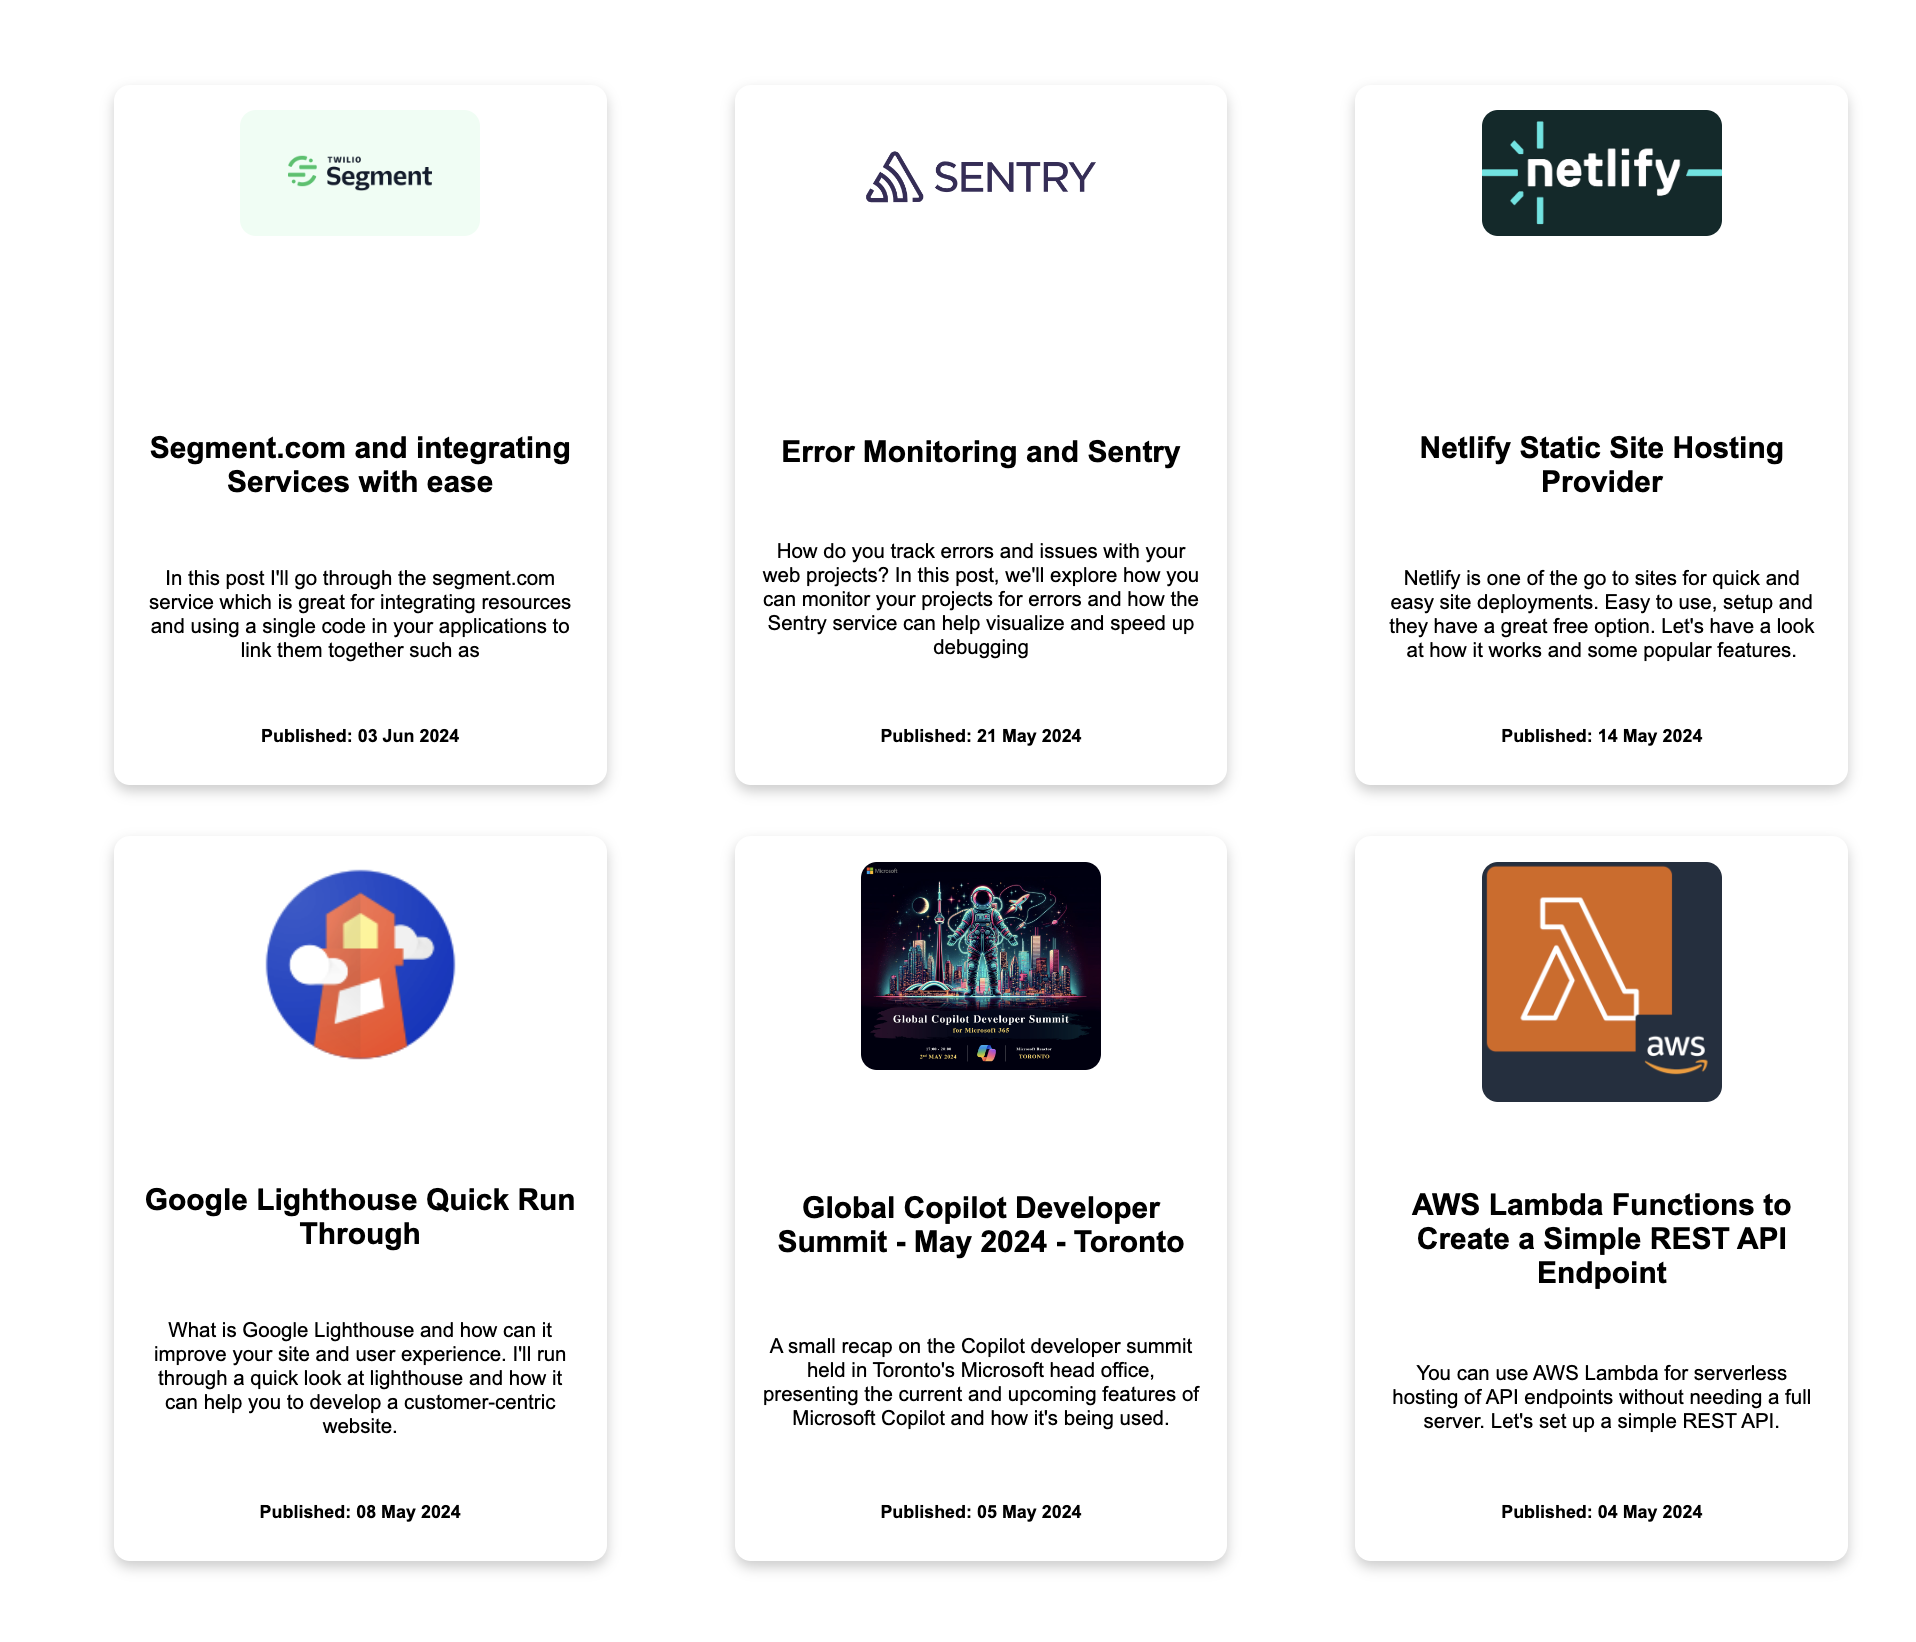
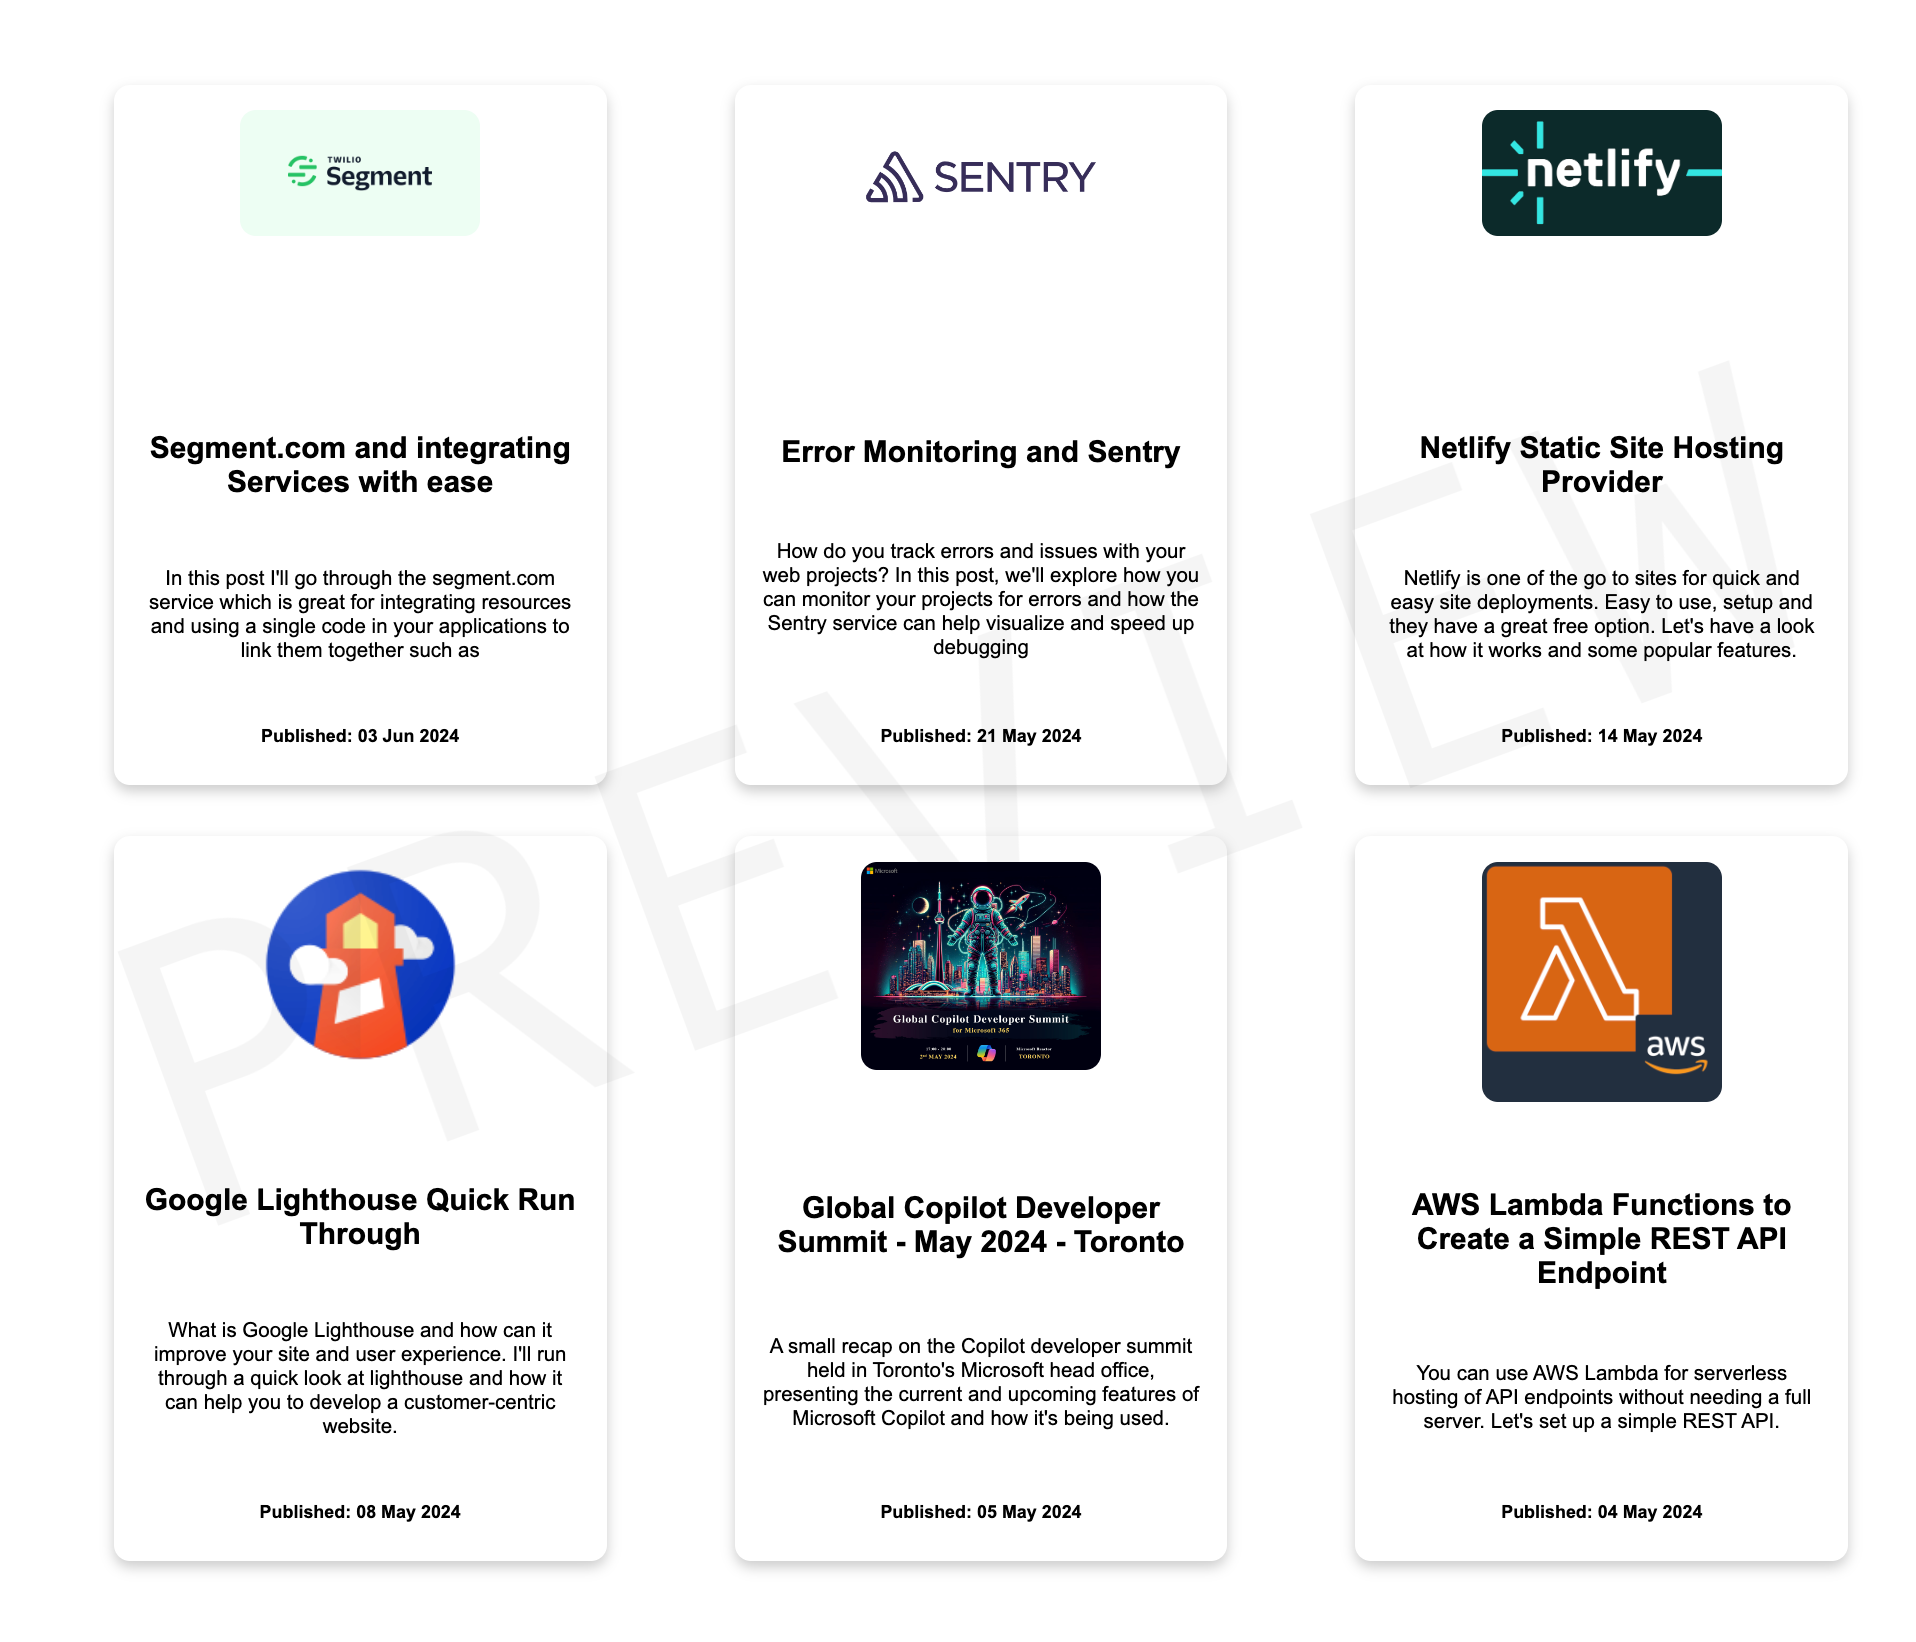
updated demo page and image previews

Changed region(s): [[0.7698, 0.528, 0.893, 0.6523], [0.4927, 0.5591, 0.5543, 0.6212], [0.7698, 0.0932, 0.8006, 0.1242]]

diff --git a/index.html b/index.html
@@ -31,7 +31,6 @@
       }
       .header {
         width: 100%;
-        height: 100vh;
         display: flex;
         flex-direction: column;
         justify-content: space-between;
@@ -71,6 +70,7 @@
         border-radius: 10px;
       }
       .header-arrow {
+        padding-top: 3rem;
         padding-bottom: 3rem;
       }
       .scroll-down {
@@ -97,6 +97,9 @@
         100% {
           transform: rotate(45deg) translate(0, 0);
         }
+      }
+      #form-section {
+        width: 100%;
       }
       .demo-title {
         padding-top: 2rem;
@@ -174,55 +177,27 @@
         font-size: 0.8rem;
         margin-top: 0.5rem;
       }
+      .accordion-header button {
+        font-size: 20px;
+        font-weight: 600;
+      }
+      .input-field-wrapper {
+        padding-left: 1.5rem;
+      }
+      @media (max-width: 575.98px) {
+        .demo-title-spacer {
+          display: none;
+        }
+        .demo-title-section {
+          padding-left: 1.5rem;
+        }
+      }
     </style>
     <script
       src="substack-post-feed.js"
       type="application/javascript"
       defer
     ></script>
-
-    <script>
-      document
-        .getElementById("updateButton")
-        .addEventListener("click", function () {
-          console.log("Button clicked");
-          event.preventDefault();
-
-          var pageName = document.getElementById("pageNameInput").value;
-          var feedAmount = document.getElementById("feedAmountInput").value;
-          var customCssFeed = document.getElementById("customCssFeed").value;
-          var customCssLoader =
-            document.getElementById("customCssLoader").value;
-
-          var rssFeed = document.getElementById("rssFeed");
-          var newRssFeed = rssFeed.cloneNode(true);
-          newRssFeed.setAttribute("substack-page-name", pageName);
-          newRssFeed.setAttribute("feed-amount-displayed", feedAmount);
-          newRssFeed.setAttribute("custom-css-feed", customCssFeed);
-          newRssFeed.setAttribute("custom-css-loader", customCssLoader);
-          rssFeed.parentNode.replaceChild(newRssFeed, rssFeed);
-        });
-    </script>
-    <script>
-      function checkInput() {
-        var pageNameInput = document.getElementById("pageNameInput");
-        var updateButton = document.getElementById("updateButton");
-        var errorMessage = document.getElementById("pageNameInputError");
-
-        if (pageNameInput.value.trim() === "") {
-          updateButton.disabled = true;
-          pageNameInput.classList.add("error");
-          errorMessage.style.display = "block";
-        } else {
-          updateButton.disabled = false;
-          pageNameInput.classList.remove("error");
-          errorMessage.style.display = "none";
-        }
-      }
-
-      // Call checkInput initially to set the button state based on the initial input value
-      checkInput();
-    </script>
   </head>
   <body>
     <div class="header">
@@ -275,8 +250,8 @@
     <hr />
 
     <form class="row g-3 needs-validation" novalidate id="form-section">
-      <span class="col-2"></span>
-      <div class="demo-title-section col-8">
+      <span class="col-2 demo-title-spacer"></span>
+      <div class="demo-title-section col-12 col-sm-8">
         <h2 class="demo-title">Demo:</h2>
         <p>
           Edit the fields below and click on the "update Feed" button below and
@@ -285,9 +260,9 @@
         </p>
       </div>
 
+      <span class="col-2 demo-title-spacer"></span>
       <span class="col-2"></span>
-      <span class="col-2"></span>
-      <div class="col-md-4">
+      <div class="col-md-4 input-field-wrapper">
         <div class="form-floating mb-3">
           <input
             type="text"
@@ -304,7 +279,7 @@
           </p>
         </div>
       </div>
-      <div class="col-md-4">
+      <div class="col-md-4 input-field-wrapper">
         <div class="form-floating mb-3">
           <input
             type="text"
@@ -321,7 +296,7 @@
       <!-- CSS textarea fields -->
 
       <span class="col-2"></span>
-      <div class="col-md-8">
+      <div class="col-md-8 input-field-wrapper">
         <div class="form-floating">
           <textarea
             class="form-control"
@@ -336,7 +311,7 @@
       <span class="col-2"></span>
       <span class="col-2"></span>
 
-      <div class="col-md-8">
+      <div class="col-md-8 input-field-wrapper">
         <div class="form-floating">
           <textarea
             class="form-control"
@@ -362,6 +337,8 @@
       </div>
     </form>
 
+    <hr />
+    <h2 class="text-center">Substack Feed:</h2>
     <hr />
 
     <substack-posts-feed
@@ -394,7 +371,7 @@
 
         <p>A breakdown of how the component can work and function:</p>
 
-        <div class="accordion" id="accordionExample">
+        <div class="accordion" id="accordionFaq">
           <div class="accordion-item">
             <h2 class="accordion-header">
               <button
@@ -411,7 +388,7 @@
             <div
               id="collapseOne"
               class="accordion-collapse collapse"
-              data-bs-parent="#accordionExample"
+              data-bs-parent="#accordionFaq"
             >
               <div class="accordion-body">
                 <h3>How to use the component</h3>
@@ -539,13 +516,13 @@
                 aria-expanded="false"
                 aria-controls="collapseTwo"
               >
-                CSS Classes:
+                Styling and CSS Classes:
               </button>
             </h2>
             <div
               id="collapseTwo"
               class="accordion-collapse collapse"
-              data-bs-parent="#accordionExample"
+              data-bs-parent="#accordionFaq"
             >
               <div class="accordion-body">
                 <p>
@@ -757,11 +734,43 @@
             <div
               id="collapseThree"
               class="accordion-collapse collapse"
-              data-bs-parent="#accordionExample"
+              data-bs-parent="#accordionFaq"
             >
               <div class="accordion-body">
                 More updates and changes are coming soon so keep posted!
                 &#128513;
+              </div>
+            </div>
+          </div>
+
+          <div class="accordion-item">
+            <h2 class="accordion-header">
+              <button
+                class="accordion-button collapsed"
+                type="button"
+                data-bs-toggle="collapse"
+                data-bs-target="#collapseFour"
+                aria-expanded="false"
+                aria-controls="collapseFour"
+              >
+                Version History:
+              </button>
+            </h2>
+            <div
+              id="collapseFour"
+              class="accordion-collapse collapse"
+              data-bs-parent="#accordionFaq"
+            >
+              <div class="accordion-body">
+                <ul>
+                  <li>
+                    <strong>0.0.1-Alpha:</strong>
+                    <ul>
+                      <li>Initial release of the component</li>
+                      <li>Basic functionality and styling</li>
+                    </ul>
+                  </li>
+                </ul>
               </div>
             </div>
           </div>
@@ -794,6 +803,48 @@
     <script>
       document.getElementById("currentYear").textContent =
         new Date().getFullYear();
+    </script>
+
+    <script>
+      document
+        .getElementById("updateButton")
+        .addEventListener("click", function () {
+          event.preventDefault();
+
+          var pageName = document.getElementById("pageNameInput").value;
+          var feedAmount = document.getElementById("feedAmountInput").value;
+          var customCssFeed = document.getElementById("customCssFeed").value;
+          var customCssLoader =
+            document.getElementById("customCssLoader").value;
+
+          var rssFeed = document.getElementById("rssFeed");
+          var newRssFeed = rssFeed.cloneNode(true);
+          newRssFeed.setAttribute("substack-page-name", pageName);
+          newRssFeed.setAttribute("feed-amount-displayed", feedAmount);
+          newRssFeed.setAttribute("custom-css-feed", customCssFeed);
+          newRssFeed.setAttribute("custom-css-loader", customCssLoader);
+          rssFeed.parentNode.replaceChild(newRssFeed, rssFeed);
+        });
+    </script>
+    <script>
+      function checkInput() {
+        var pageNameInput = document.getElementById("pageNameInput");
+        var updateButton = document.getElementById("updateButton");
+        var errorMessage = document.getElementById("pageNameInputError");
+
+        if (pageNameInput.value.trim() === "") {
+          updateButton.disabled = true;
+          pageNameInput.classList.add("error");
+          errorMessage.style.display = "block";
+        } else {
+          updateButton.disabled = false;
+          pageNameInput.classList.remove("error");
+          errorMessage.style.display = "none";
+        }
+      }
+
+      // Call checkInput initially to set the button state based on the initial input value
+      checkInput();
     </script>
   </body>
 </html>
